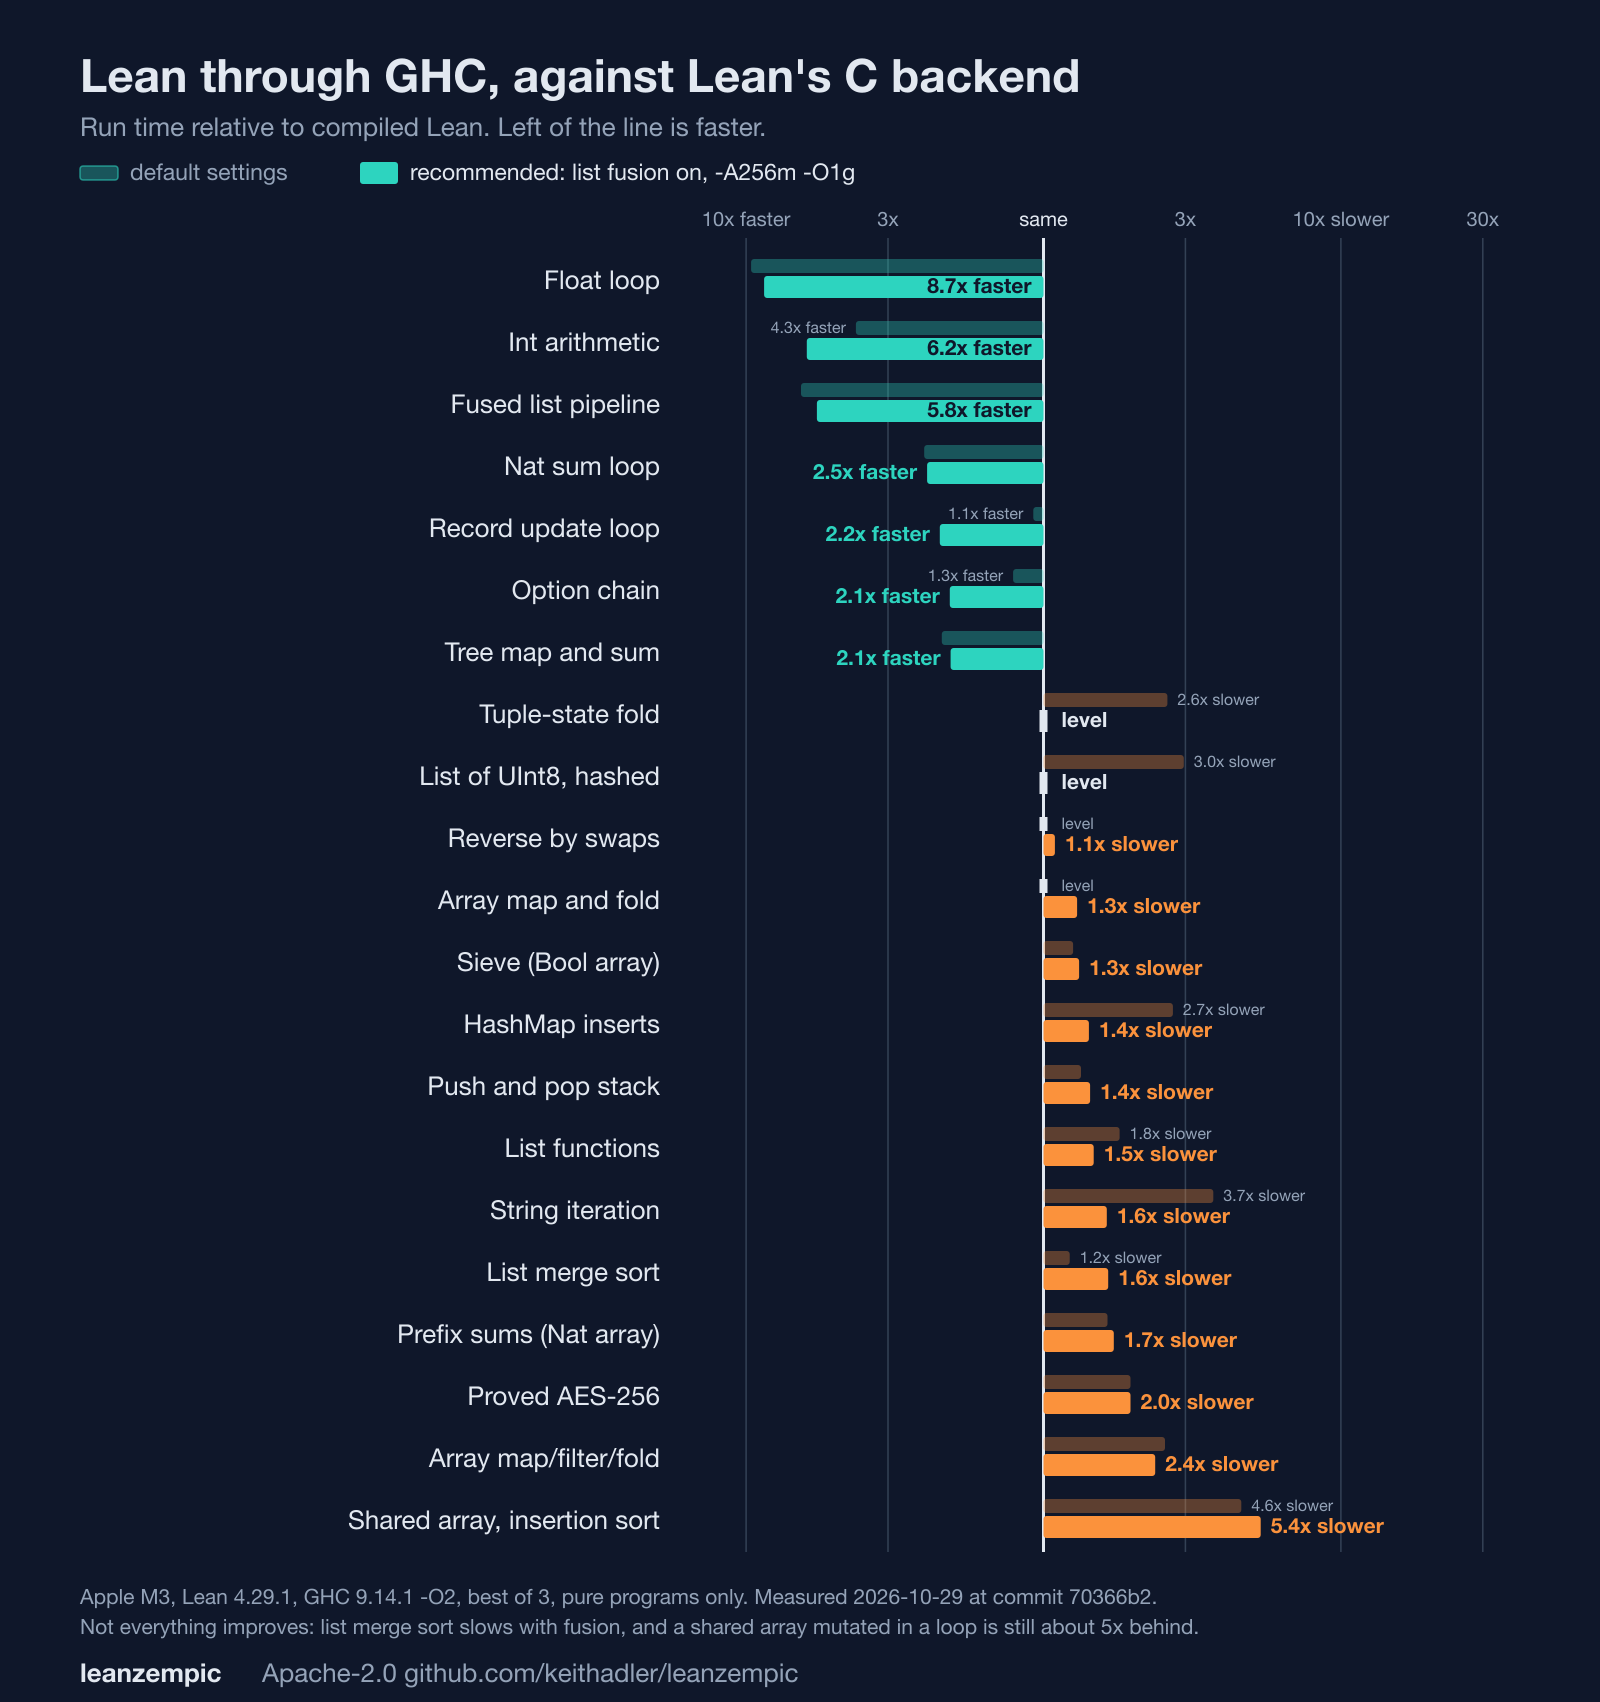
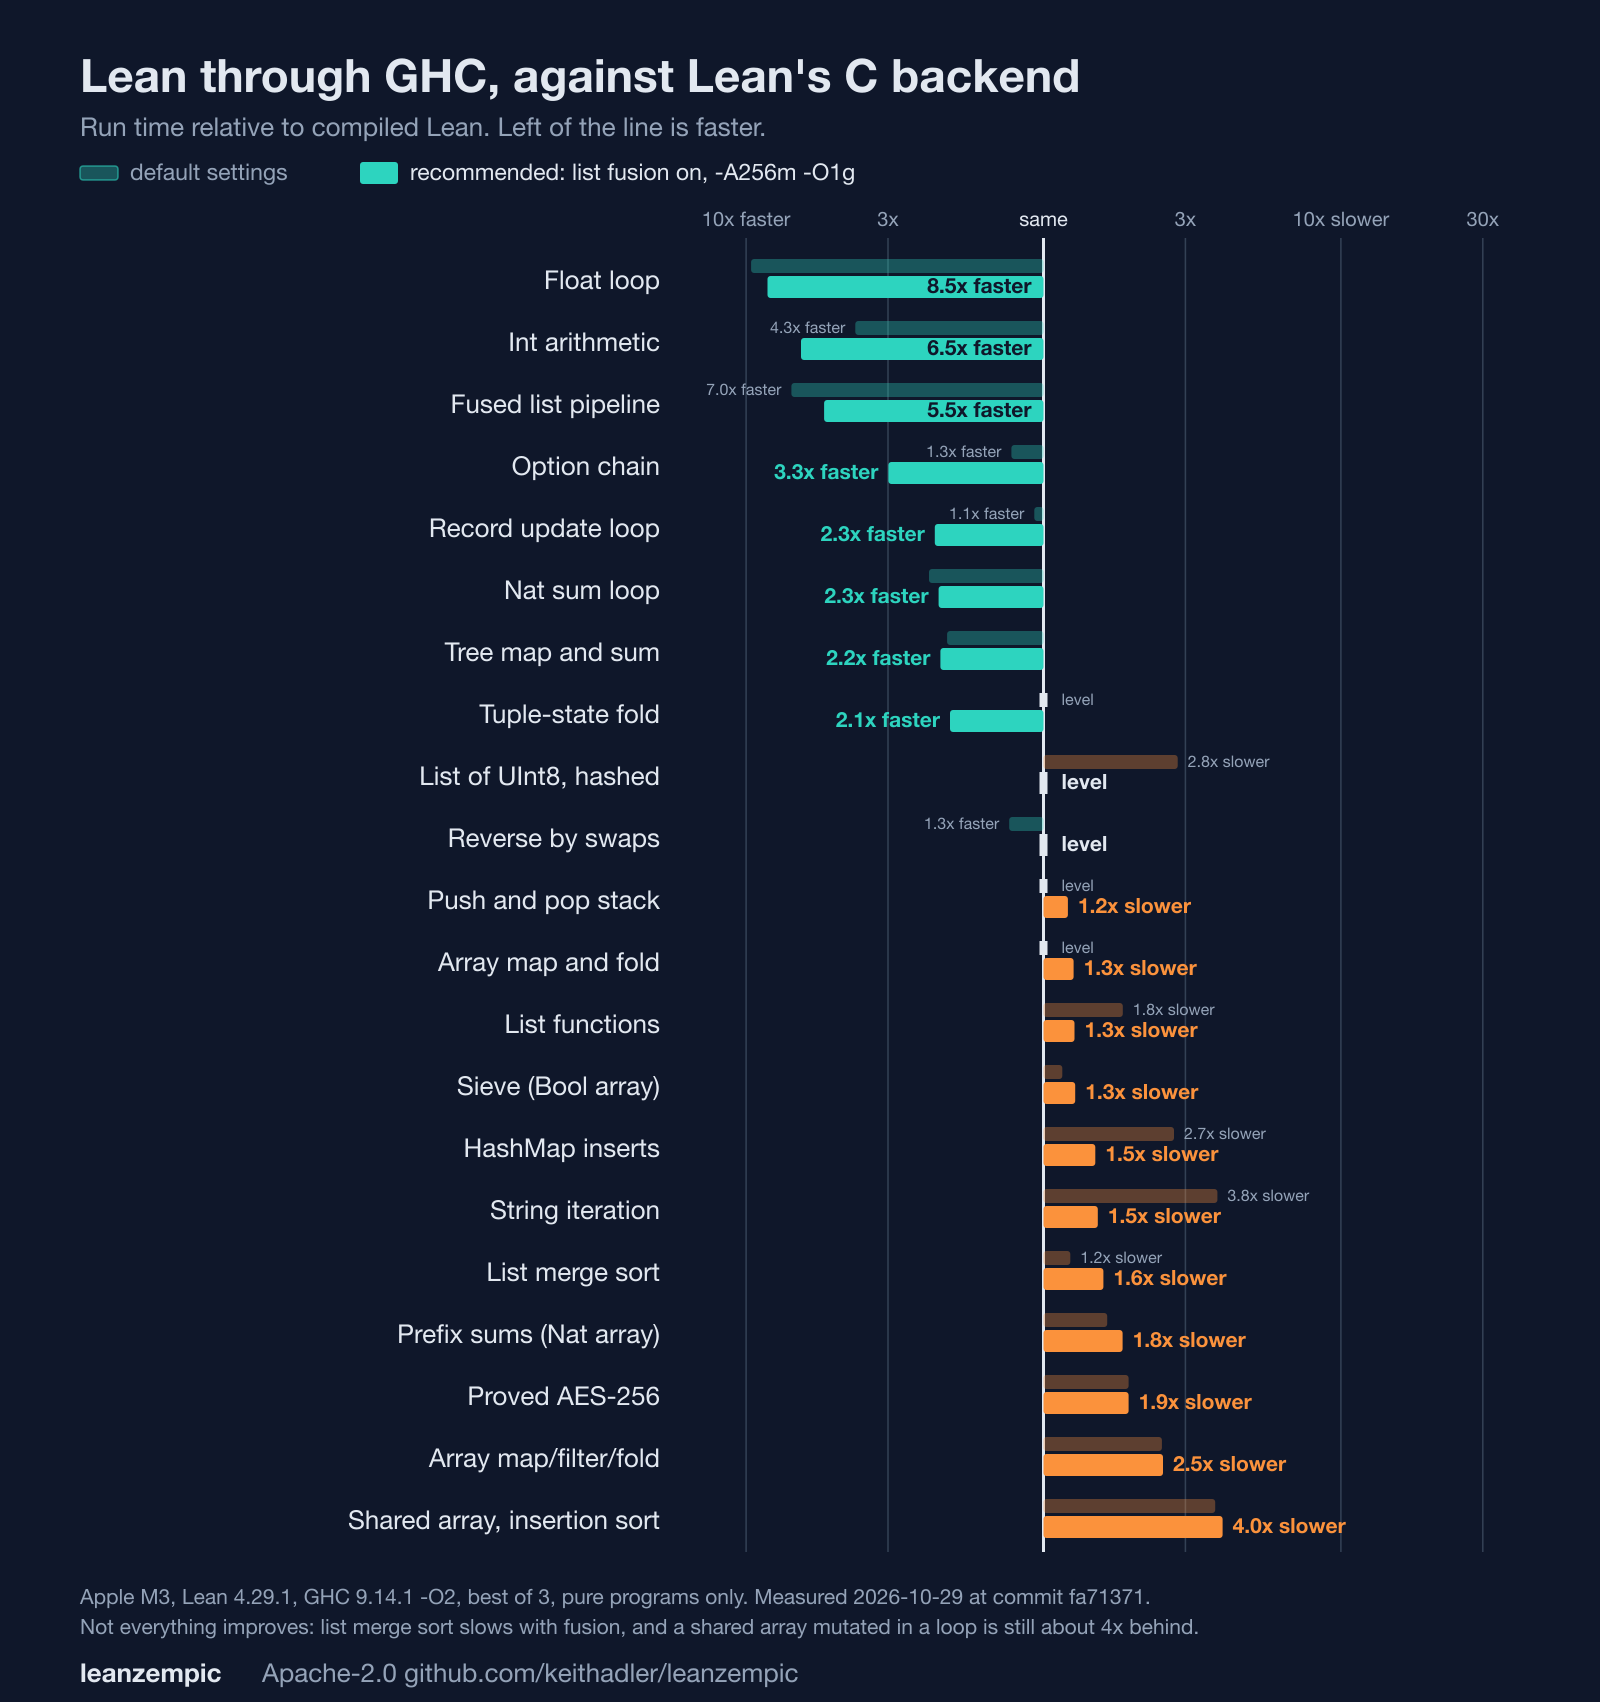
Refresh chart and real-world results at fa71371
Chart remeasured on the merged main; shared-array row 5.38x to 4.0x. Real-world table remeasured for all seven programs including instructions retired.

diff --git a/docs/make_chart.py b/docs/make_chart.py
@@ -61,7 +61,7 @@ for i, row in enumerate(rows):
 fy = top + rh * len(rows) + 52
 stamp = f" Measured {meta['date']} at commit {meta['commit']}." if meta else ""
 o.append(f'<text x="80" y="{fy}" font-size="21" fill="{MUTE}">Apple M3, Lean 4.29.1, GHC 9.14.1 -O2, best of 3, pure programs only.{stamp}</text>')
-o.append(f'<text x="80" y="{fy+30}" font-size="21" fill="{MUTE}">Not everything improves: list merge sort slows with fusion, and a shared array mutated in a loop is still about 5x behind.</text>')
+o.append(f'<text x="80" y="{fy+30}" font-size="21" fill="{MUTE}">Not everything improves: list merge sort slows with fusion, and a shared array mutated in a loop is still about 4x behind.</text>')
 o.append(f'<text x="80" y="{fy+78}" font-size="26" font-weight="700" fill="{FG}">leanzempic</text>')
 o.append(f'<text x="262" y="{fy+78}" font-size="26" fill="{MUTE}">Apache-2.0  github.com/keithadler/leanzempic</text>')
 o.append('</svg>')

diff --git a/bench/realworld/RESULTS.md b/bench/realworld/RESULTS.md
@@ -125,3 +125,29 @@ bench/realworld/run.sh            # adapt, build, verify, bench (about 5 minutes
 Files: `upstream/` (fetched, unmodified), `src/` (generated by `adapt.py`), `run.py` (build and bench),
 `verify.py`, `report.py`, `sizes.json` (n per program). `out/` (binaries, generated Haskell, raw results) is
 git-ignored.
+
+Update (2026-10-29, commit fa71371, all seven programs remeasured together, best of 3; this replaces the tables above):
+
+| program | n | native wall s (CPU) | default wall s (CPU), ratio | recommended wall s (CPU), ratio | peak MB native / default / recommended | output identical |
+|---|---|---|---|---|---|---|
+| [binarytrees](https://github.com/leanprover/lean4/blob/f72c35b3f637c8c6571d353742168ab66cc22c00/tests/bench/binarytrees.lean) | 19 | 1.19 (1.18) | 0.87 (0.85), 0.73x | 0.87 (0.85), 0.73x | 35 / 174 / 292 | yes |
+| [const_fold](https://github.com/leanprover/lean4/blob/f72c35b3f637c8c6571d353742168ab66cc22c00/tests/bench/const_fold.lean) | 500 | 1.29 (1.29) | 1.09 (1.09), 0.84x | 1.09 (1.08), 0.84x | 8 / 167 / 323 | yes |
+| [deriv](https://github.com/leanprover/lean4/blob/f72c35b3f637c8c6571d353742168ab66cc22c00/tests/bench/deriv.lean) | 10 | 0.62 (0.60) | 0.71 (0.70), 1.15x | 0.65 (0.63), 1.05x | 549 / 569 / 785 | yes |
+| [qsort](https://github.com/leanprover/lean4/blob/f72c35b3f637c8c6571d353742168ab66cc22c00/tests/bench/qsort.lean) | 300 | 0.79 (0.79) | 0.90 (0.88), 1.14x | 0.90 (0.88), 1.14x | 3 / 138 / 268 | yes |
+| [rbmap](https://github.com/leanprover/lean4/blob/f72c35b3f637c8c6571d353742168ab66cc22c00/tests/bench/rbmap.lean) | 2000000 | 0.97 (0.96) | 0.38 (0.36), 0.39x | 0.36 (0.34), 0.37x | 95 / 237 / 365 | yes |
+| [rbmap_checkpoint](https://github.com/leanprover/lean4/blob/f72c35b3f637c8c6571d353742168ab66cc22c00/tests/bench/rbmap_checkpoint.lean) | 2000000 | 1.04 (1.03) | 0.66 (0.64), 0.63x | 0.60 (0.58), 0.58x | 366 / 514 / 653 | yes |
+| [unionfind](https://github.com/leanprover/lean4/blob/f72c35b3f637c8c6571d353742168ab66cc22c00/tests/bench/unionfind.lean) | 3000000 | 1.52 (1.51) | 1.37 (1.35), 0.90x | 1.32 (1.30), 0.87x | 134 / 370 / 757 | yes |
+
+load averages at the start of each program's runs (1/5/15 min): binarytrees 2.6/4.3/7.5; const_fold 2.5/4.2/7.4; deriv 2.4/4.1/7.3; qsort 2.4/4.1/7.3; rbmap 2.5/4.1/7.2; rbmap_checkpoint 2.4/4.0/7.2; unionfind 2.3/3.9/7.1
+
+instructions retired (billions), the minimization target; ratio is against native Lean:
+
+| program | native | default, ratio | recommended, ratio |
+|---|---|---|---|
+| binarytrees | 19.65 | 11.62, 0.59x | 11.43, 0.58x |
+| const_fold | 16.54 | 19.60, 1.18x | 19.43, 1.18x |
+| deriv | 10.60 | 9.34, 0.88x | 8.34, 0.79x |
+| qsort | 15.11 | 14.56, 0.96x | 14.61, 0.97x |
+| rbmap | 22.32 | 6.39, 0.29x | 6.08, 0.27x |
+| rbmap_checkpoint | 22.38 | 10.41, 0.46x | 9.08, 0.41x |
+| unionfind | 35.86 | 27.32, 0.76x | 26.05, 0.73x |

diff --git a/README.md b/README.md
@@ -10,7 +10,7 @@ list fusion, unboxing) decides how your Lean program runs, instead of Lean's C b
   and GHC 9.14.1 only. CI runs the test suite on both, with a 36-program subset of the garden.
 * Honest one-line summary: up to 9x faster than Lean's C backend on numeric, `Int`, `Float`, record and
   fused-list code; with the recommended settings, between level and 3x slower on lists, tuples,
-  strings and hash maps (up to 4x slower with defaults); 1.7x to 5.4x slower on arrays, which is the main
+  strings and hash maps (up to 4x slower with defaults); 1.8x to 4.0x slower on arrays, which is the main
   open problem. See [Benchmarks](#benchmarks) for every number, including the losses.
 
 ![Run time of the Haskell output relative to compiled Lean, with default settings and with list fusion on and -A256m -O1g](docs/bench-chart.png)
